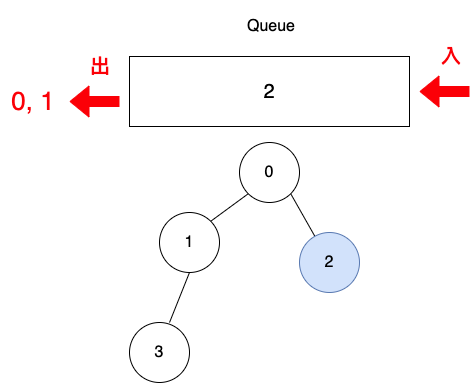
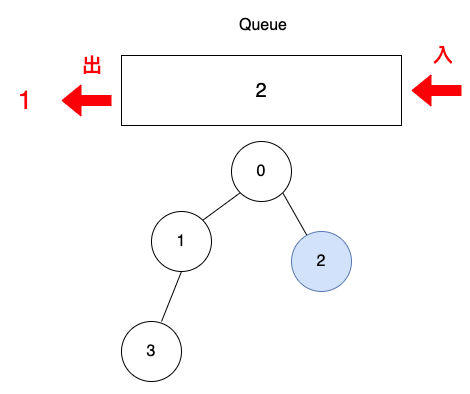
bfs 層遍歷 拓樸排序 求最小高度樹的根

diff --git a/_pages/dataStruct/topology.md b/_pages/dataStruct/topology.md
@@ -37,7 +37,7 @@ keywords: java, Topology Sort
 |分支度|1|2|1|
 
 ### 準備
-1.準備degree陣列，記錄每個頂點的分支度(連著頂點的邊)的數量，大小為頂點的數量。<br>
+準備degree陣列，記錄每個頂點的分支度(連著頂點的邊)的數量，大小為頂點的數量。<br>
 
 |頂點  |0|1|2|
 |分支度|1|2|1|
@@ -56,7 +56,7 @@ degree等於1，代表只有一條邊連著，由最少的邊開始。<br>
 
 ![img]({{site.imgurl}}/java_datastruct/topo_q2.png)<br>
 
-3.把頂點0的一條邊刪掉，頂點0要從圖上消失。<br>
+3.刪除頂點0。<br>
 
 ![img]({{site.imgurl}}/java_datastruct/topo2.png)<br>
 
@@ -70,11 +70,11 @@ degree等於1，代表只有一條邊連著，由最少的邊開始。<br>
 |頂點  |0|1|2|
 |分支度|1|~~2~~ <span class="markline">1</span>|1|
 
-頂點1刪掉的<span class="markline">degree剩下1</span>，把它加入Queue。<br>
+頂點1刪掉的<span class="markline">degree剩下1</span>，把頂點1加入Queue。<br>
 
 ![img]({{site.imgurl}}/java_datastruct/topo_q3.png)<br>
 
-5.把Queue中的頂點2拿出來，頂點2要從圖上消失。<br>
+5.把Queue中的頂點2拿出來，刪除頂點2。<br>
 
 ![img]({{site.imgurl}}/java_datastruct/topo_q4.png)<br>
 
@@ -90,7 +90,7 @@ degree等於1，代表只有一條邊連著，由最少的邊開始。<br>
 |頂點  |0|1|2|
 |分支度|1|~~1~~ <span class="markline">0</span>|1|
 
-7.把Queue中的元素1拿出來。<br>
+7.把Queue中的頂點1拿出來，刪除頂點1。<br>
 
 ![img]({{site.imgurl}}/java_datastruct/topo_q5.png)<br>
 
@@ -117,7 +117,7 @@ public class Topology {
 
   public Topology() {
     matrix = new int[vertexLen][vertexLen];
-    // 1代表相鄰
+    // 1代表連著的邊，0代表沒有連
     matrix[0] = new int[]{0, 1, 0};
     matrix[1] = new int[]{1, 0, 1};
     matrix[2] = new int[]{0, 1, 0};
@@ -134,19 +134,19 @@ public class Topology {
 
   public int topology() {
     LinkedList<Integer> queue = new LinkedList<Integer>();
-    // 訪問的頂點數量
+    // 計算刪除頂點數量
     int vistedCnt = 0;
     for (int i = 0; i < degree.length; i++) {
       // degree == 1就加入queue
       if (degree[i] == 1) {
         queue.add(i);
-        // 每加一次queue，訪問的頂點數量+1
-        vistedCnt++;
       }
     }
     while (!queue.isEmpty()) {
-      // 從queue取出頂點，代表此頂點要消失
+      // 從queue取出頂點，代表刪除該頂點
       int vertex = queue.poll();
+      // 計算刪除頂點數量 +1
+      vistedCnt++;
       // 印出
       System.out.print(vertex + ",");
       // 檢查是否有相鄰的頂點
@@ -157,8 +157,6 @@ public class Topology {
           // degree == 1就加入queue
           if (degree[j] == 1) {
             queue.add(j);
-            // 每加一次queue，訪問的頂點數量+1
-            vistedCnt++;
           }
         }
       }
@@ -170,7 +168,7 @@ public class Topology {
   public static void main(String[] args) {
     Topology topology = new Topology();
     int visitedCnt = topology.topology();
-    // 若訪問的頂點數量跟實際的頂點數量一樣，代表沒有迴路
+    // 若刪掉的頂點數量跟實際的頂點數量一樣，代表沒有迴路
     System.out.println("hasCircle ? " + (visitedCnt != topology.vertexLen));
   }
 }
@@ -210,7 +208,7 @@ hasCircle ? false
 
 3.發現根本沒有頂點的分支度是1，所以沒有一個頂點加到Queue中。<br>
 
-4.有加到Queue的頂點數量跟實際的頂點數量不符，代表有迴路。<br>
+4.刪除的頂點數量跟實際的頂點數量不符，代表有迴路。<br>
 
 直接把先前的程式中的相鄰矩陣改成有迴路。
 {% highlight java linenos %}
@@ -240,10 +238,19 @@ i代表「出」邊，j代表「入」邊。<br>
 |頂點   |0|1|2|3|
 |入分支度|0|2|1|0|
 
-與先前程式碼大同小異，主要是相鄰矩陣入分支度的統計。
+所謂的出邊，出分支度，從i頂點「出發」，箭頭指向其它頂點，也就是從i頂點出發的個數。
+
+| |j=0|j=1|j=2|j=3|出分支度|
+|i=0|0|1|0|0|1|
+|i=1|0|0|1|0|1|
+|i=2|0|0|0|0|0|
+|i=3|0|1|0|0|1|
+
+與先前程式碼大同小異，主要是相鄰矩陣「入分支度」的統計。
 
 入分支度為0(代表沒有頂點指向自己)，加入Queue，從最少的度開始。
 
+還有要把Queue中i頂點從圖上刪除，要找從i出發的出邊，推斷出j頂點的入分支度，並將j頂點的入分支度減1。
 {% highlight java linenos %}
 public class InDegreeTopology {
   // 相鄰矩陣
@@ -259,6 +266,7 @@ public class InDegreeTopology {
 
   public InDegreeTopology() {
     matrix = new int[vertexLen][vertexLen];
+    // 1代表連著的邊，0代表沒有連
     matrix[0] = new int[]{0, 1, 0, 0};
     matrix[1] = new int[]{0, 0, 1, 0};
     matrix[2] = new int[]{0, 0, 0, 0};
@@ -277,21 +285,21 @@ public class InDegreeTopology {
 
   public int topology() {
     LinkedList<Integer> queue = new LinkedList<>();
-    // 計算有加入queue中的頂點數量
+    // 計算刪除頂點數量
     int vistedCnt = 0;
     for (int i = 0; i < indegree.length; i++) {
       // 入分支度為0，代表沒有頂點指向
       if (indegree[i] == 0) {
         // 加入queue
         queue.add(i);
-        // 計算有加入queue中的頂點數量 +1
-        vistedCnt++;
       }
     }
     // 迴圈進入的條件，queue不為空
     while (!queue.isEmpty()) {
-      // 把頂點從圖上消失
+      // 從queue取出頂點，代表刪除該頂點
       int vertex = queue.poll();
+      // 計算刪除頂點數量 +1
+      vistedCnt++;
       // 印出頂點
       System.out.print(vertex + ", ");
       // 檢查是否有出邊，也就是箭頭指向其它頂點
@@ -304,8 +312,6 @@ public class InDegreeTopology {
           if (indegree[j] == 0) {
             // 加入queue
             queue.add(j);
-            // 計算有加入queue中的頂點數量 +1
-            vistedCnt++;
           }
         }
       }
@@ -317,7 +323,7 @@ public class InDegreeTopology {
   public static void main(String[] args) {
     InDegreeTopology inDegreeTopology = new InDegreeTopology();
     int vistedCnt = inDegreeTopology.topology();
-    // 若訪問的頂點數量跟實際的頂點數量一樣，代表沒有迴路
+    // 若刪掉的頂點數量跟實際的頂點數量一樣，代表沒有迴路
     System.out.println("hasCircle = " + (vistedCnt != inDegreeTopology.vertexLen));
   }
 }
@@ -325,4 +331,141 @@ public class InDegreeTopology {
 ```
 0, 3, 1, 2, 
 hasCircle = false
+```
+
+## 尋找樹的中心，最小高度樹
+### 奇數個數頂點
+假設有長長的樹
+```
+0 - 1 - 2 - 3 - 4
+```
+若0當根節點，高度為4。<br>
+若1當根節點，高度為3。<br>
+若2當根節點，高度為2。<br>
+2當根節點就是最小高度的樹。<br>
+
+如何求出樹的中心？<br>
+要把最外圍的頂點先刪除。<br>
+```
+0 - 1 - 2 - 3 - 4
+```
+先刪掉0與4頂點。
+
+```
+1 - 2 - 3 
+```
+
+再刪掉1與3頂點。
+
+```
+2
+```
+### 偶數個數頂點
+若頂點是偶數。<br>
+```
+0 - 1 - 2 - 3 - 4 - 5
+```
+先刪掉0與5頂點。<br>
+
+```
+1 - 2 - 3 - 4 
+```
+
+再刪掉1與4頂點。<br>
+```
+2 - 3
+```
+剩下頂點2與頂點3，就是中心頂點。
+
+### 奇數圖
+要使用到bfs層層遍歷，先把最外層，分支度為1的頂點刪掉，紅色框框代表是同一層。<br>
+最後刪掉的那一層，就是中心頂點。<br>
+![img]({{site.imgurl}}/java_datastruct/miniroot1.png)<br>
+
+### 偶數圖
+要使用到bfs層層遍歷，先把最外層，分支度為1的頂點刪掉，紅色框框代表是同一層。
+最後刪掉的那一層，就是中心頂點。<br>
+![img]({{site.imgurl}}/java_datastruct/miniroot2.png)<br>
+
+### 程式碼
+bfs使用層層遍歷，最後那一層，就是中心頂點。
+{% highlight java linenos %}
+public class MiniHightTree {
+  // 相鄰矩陣
+  private int[][] matrix;
+  // 頂點數量
+  private int vertexLen = 3;
+  // 分支度
+  private int[] degree;
+  public int getVertexLen() {
+    return vertexLen;
+  }
+
+  public MiniHightTree() {
+    matrix = new int[vertexLen][vertexLen];
+    // 1代表連著的邊，0代表沒有連
+    matrix[0] = new int[]{0, 1, 0};
+    matrix[1] = new int[]{1, 0, 1};
+    matrix[2] = new int[]{0, 1, 0};
+    degree = new int[vertexLen];
+    for (int i = 0; i < vertexLen; i++) {
+      for (int j = 0; j < vertexLen; j++) {
+        if (matrix[i][j] == 1) {
+          // 以列(row)的方式統計分支度
+          degree[i]++;
+        }
+      }
+    }
+  }
+
+  public List<Integer> getMiniHightRoot() {
+    // 記錄刪到最後，最後一層頂點
+    List<Integer> list = null;
+    LinkedList<Integer> queue = new LinkedList<Integer>();
+    // 計算刪除頂點數量
+    int vistedCnt = 0;
+    for (int i = 0; i < degree.length; i++) {
+      // degree == 1就加入queue
+      if (degree[i] == 1) {
+        queue.add(i);
+      }
+    }
+    while (!queue.isEmpty()) {
+      // 取出每一層的頂點個數
+      int size = queue.size();
+      // 每遍歷一層，list都會被清空，只記錄最後一層的頂點
+      list = new ArrayList<>();
+      // 遍歷這一層的頂點
+      for (int i = 0; i < size; i++) {
+        // 從queue取出頂點，代表刪除該頂點
+        int vertex = queue.poll();
+        // 計算刪除頂點數量 +1
+        vistedCnt++;
+        list.add(vertex);
+        // 檢查是否有相鄰的頂點
+        for (int j = 0; j < vertexLen; j++) {
+          // 有相鄰的頂點j，分支度要減1
+          if (matrix[vertex][j] == 1) {
+            degree[j]--;
+            // degree == 1就加入queue
+            if (degree[j] == 1) {
+              queue.add(j);
+            }
+          }
+        }
+      }
+    }
+    // 傳回最後一層的頂點
+    return list;
+  }
+
+  public static void main(String[] args) {
+    MiniHightTree topology = new MiniHightTree();
+    List result = topology.getMiniHightRoot();
+    System.out.println(result);
+  }
+}
+{% endhighlight %}
+```
+[1]
 ```

diff --git a/_pages/dataStruct/bfs.md b/_pages/dataStruct/bfs.md
@@ -124,3 +124,58 @@ public class BFS {
 ```
 0->1->2->3->
 ```
+
+## 一層層遍歷
+上面的程式碼，是頂點加入Queue，頂點從Queue取出，尋找跟此頂點相鄰的邊，再把相鄰的頂點加入Queue，Queue不為空，再從Queue取出頂點，尋找跟此頂點相鄰的邊，再把相鄰的頂點加入Queue，如此反覆遍歷，直到Queue為空。<br>
+如果需要知道經過幾層，才能遍歷完畢？<br>
+
+加入頂點0，頂點0是第1層。
+![img]({{site.imgurl}}/java_datastruct/bfs_lay1.png)<br>
+
+取出頂點0。
+![img]({{site.imgurl}}/java_datastruct/bfs_lay2.png)<br>
+
+加入頂點1與2，頂點1與2是第2層。
+![img]({{site.imgurl}}/java_datastruct/bfs_lay3.png)<br>
+
+取出頂點1與2，取出1的過程檢查出1的相鄰頂點3，把頂點3加入queue。
+![img]({{site.imgurl}}/java_datastruct/bfs_lay4.png)<br>
+
+取出頂點3，頂點3是第3層。
+![img]({{site.imgurl}}/java_datastruct/bfs_lay5.png)<br>
+
+{% highlight java linenos %}
+  public void bfsLayer() {
+    LinkedList<Integer> queue = new LinkedList<>();
+    // 記錄層數
+    int layer = 0;
+    // 從頂點0開始，此圖為連通圖，沒有不連通或孤立的圖
+    int start = 0;
+    queue.add(start);
+    // 設已訪問
+    visted[start] = true;
+    while (!queue.isEmpty()) {
+      // 每一層有多少頂點
+      int size = queue.size();
+      // 增加一層
+      layer++;
+      // 那一層頂點進行for循環
+      for (int cnt = 0; cnt < size; cnt++) {
+        int vertex = queue.poll();
+        System.out.print(vertex + "->");
+        for (int j = 0; j < vertexLen; j++) {
+          if (!visted[j] && matrix[vertex][j] == 1) {
+            queue.add(j);
+            visted[j] = true;
+          }
+        }
+      }
+    }
+    System.out.println();
+    System.out.println("layer = " + layer);
+  }
+{% endhighlight %}
+```
+0->1->2->3->
+layer = 3
+```
